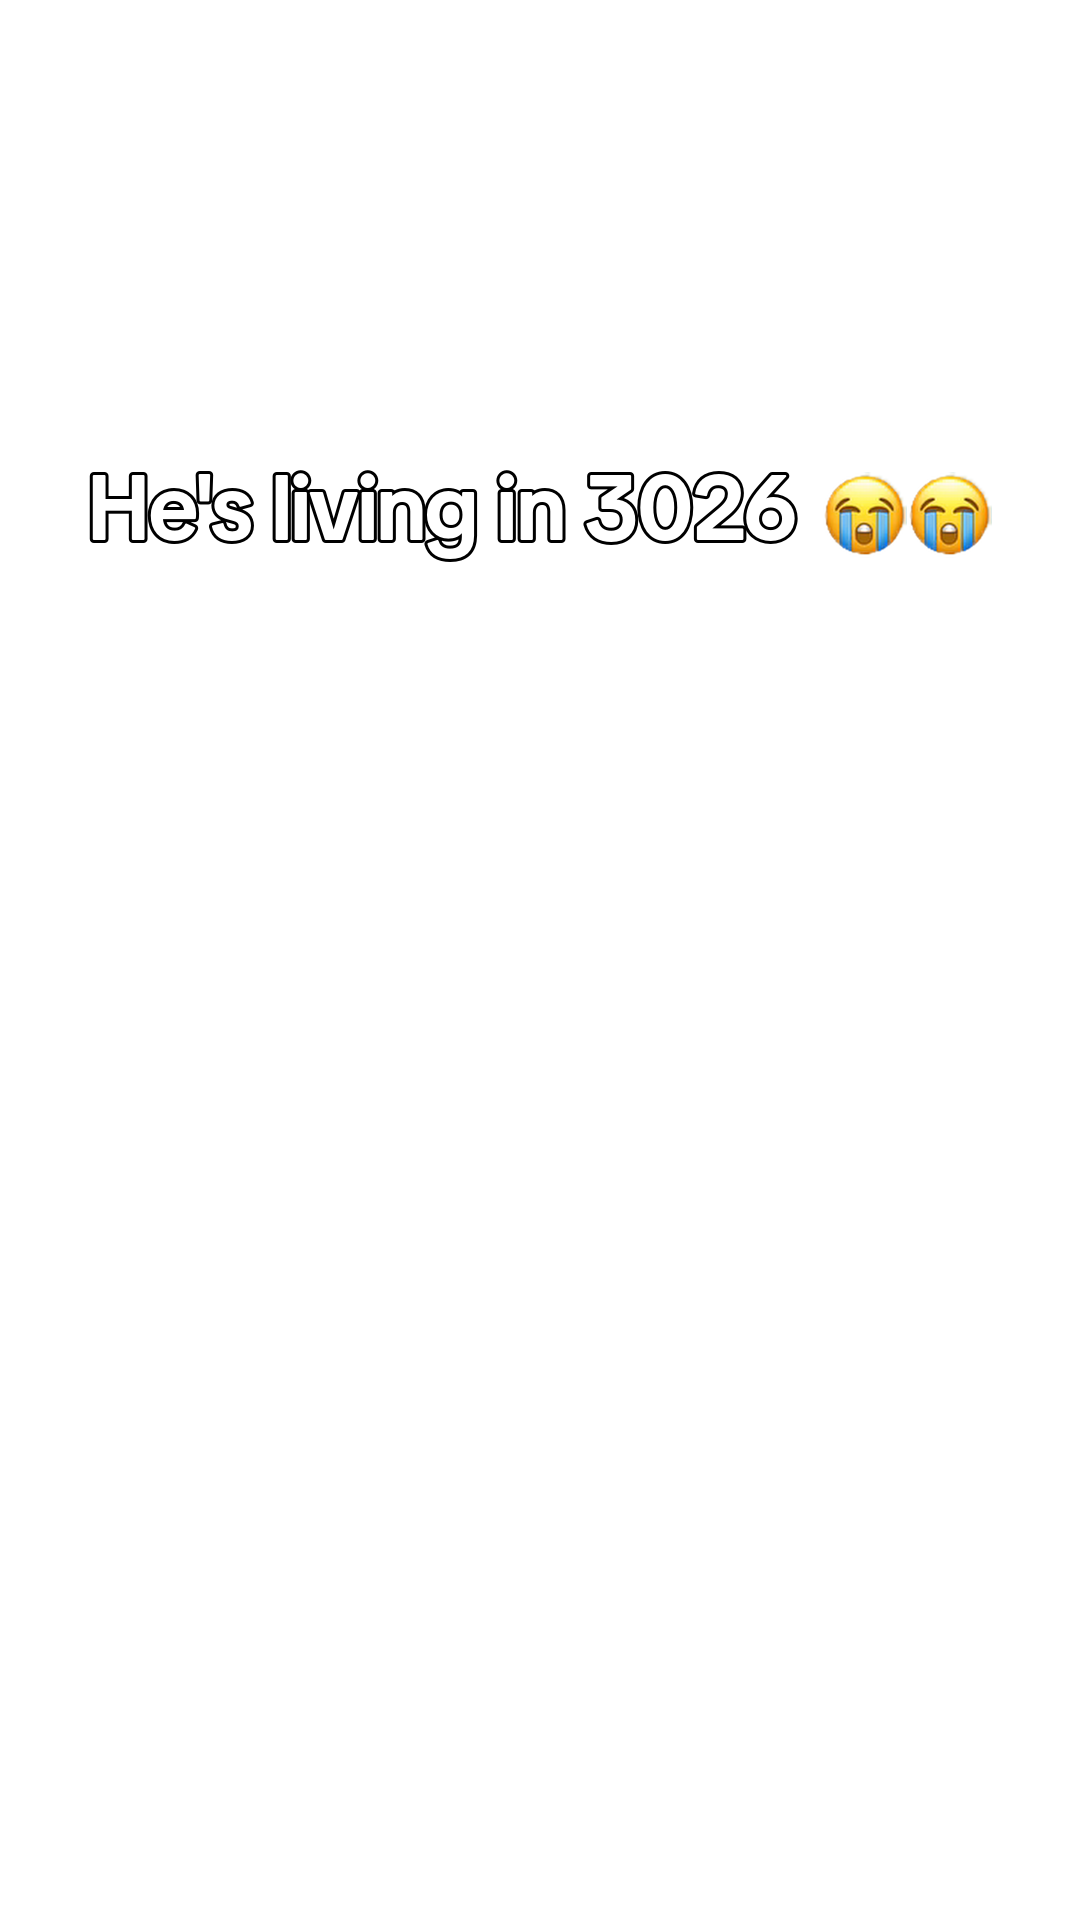
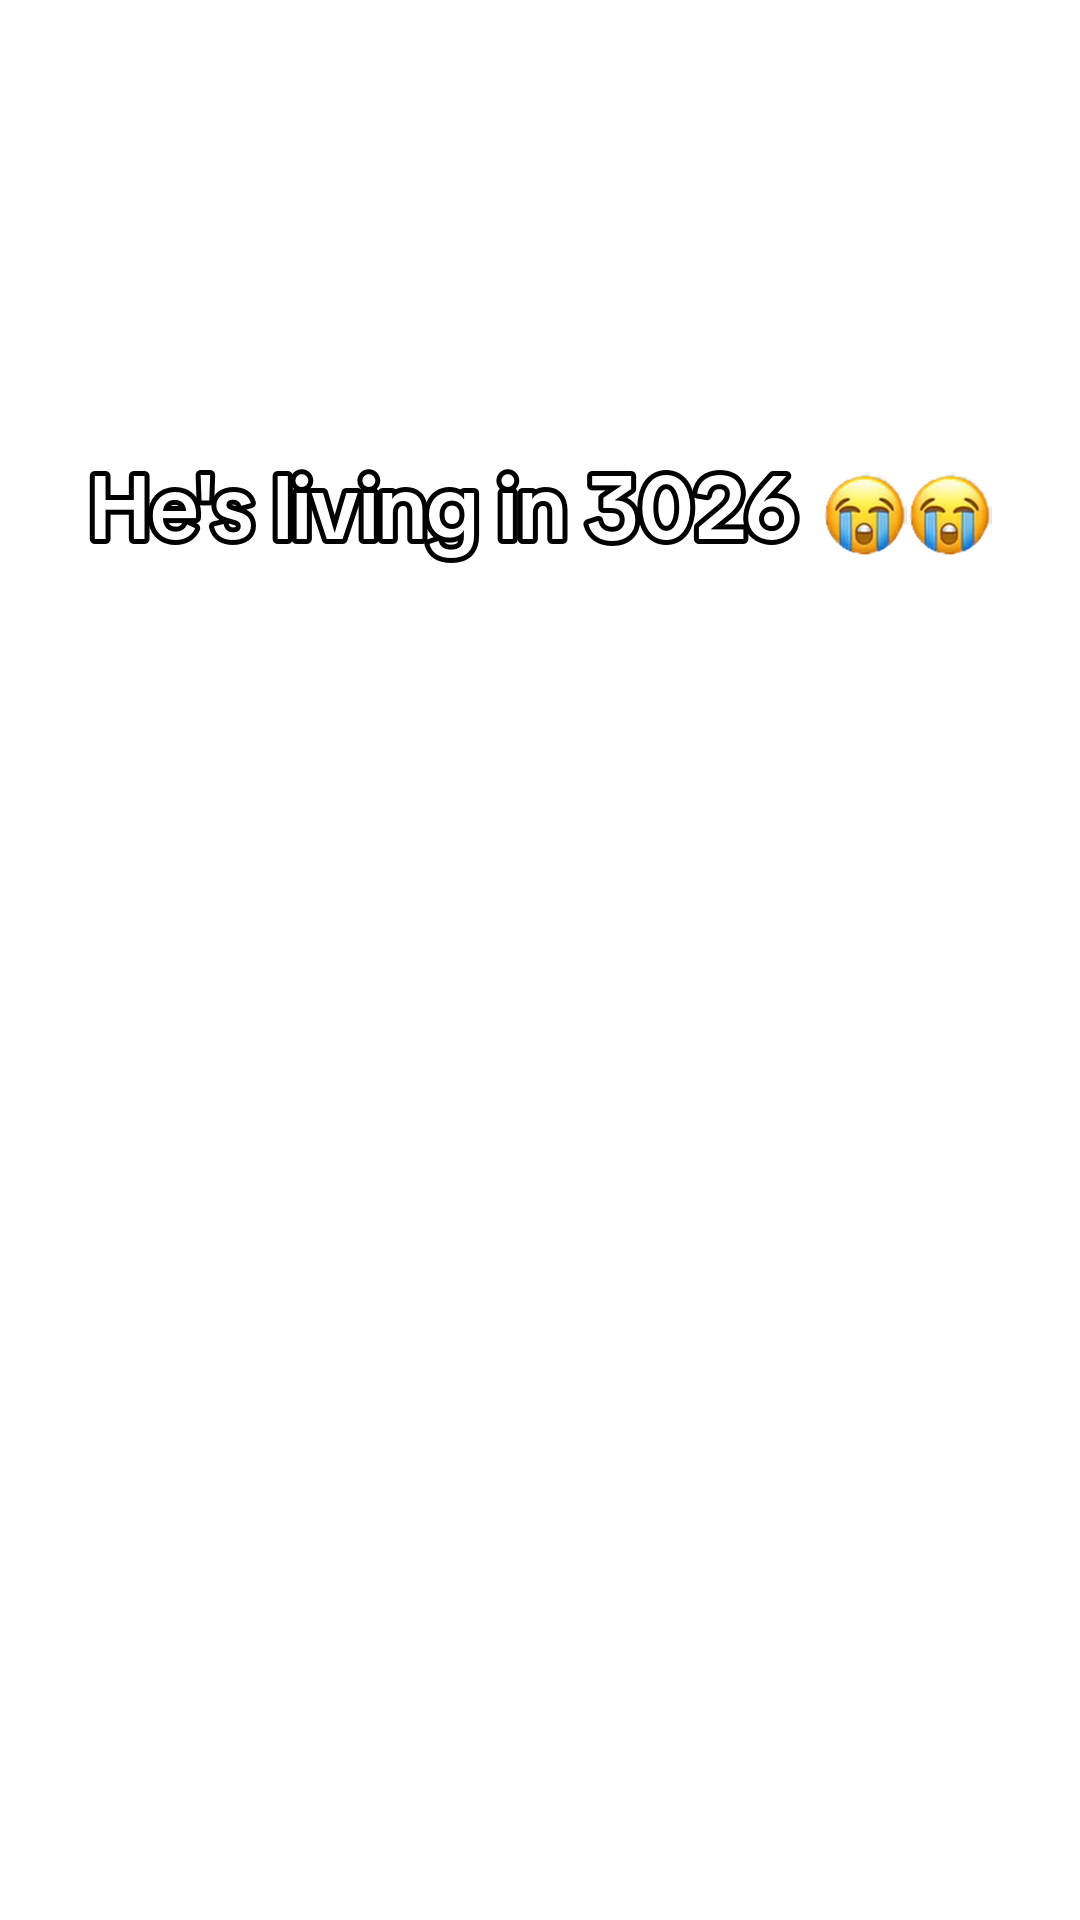
Use CapCut's exact Classic text spec (no bold, thicker outline)
Claude-Session: https://claude.ai/code/session_013WAfZGamzfo2Y8gnxGHoNd

Changed region(s): [[0.0917, 0.25, 0.7333, 0.3125]]

diff --git a/CLAUDE.md b/CLAUDE.md
@@ -134,8 +134,8 @@ Matching rules Evan gave:
   bigger than the reference face, which Evan's reference framing implies.
 - **Text hook** on BOTH hook types, for the hook and the whole reaction: the reference text exactly
   ("He's living in 3026 😭😭" for ref 1, "He's living in 3026 😭🤯" for ref 2). Font: **TikTok Display Medium**
-  (`fonts/TikTokDisplay-Medium.ttf`, the real font from Evan's CapCut, = CapCut "Classic") with a 1px faux bold
-  (`--embolden 1`) and a 3px black outline, box 84,478 to 802,554. This matches the reference exactly. Earlier
+  (`fonts/TikTokDisplay-Medium.ttf`, the real font from Evan's CapCut, = CapCut "Classic"): white fill, black
+  outline `--stroke 5`, **no bold**, box 84,478 to 802,554. Earlier
   TikTok Sans approximations (700/100, then 650/90 condensed) were close but Evan could tell. The emojis are the real Apple ones lifted from the reference
   (`assets/batch_1029/emoji_*_1080.png`; text PNGs and spec.json saved there too, extracted as pixels that stay static while the video changes, then
   cleaned by colour).
@@ -159,8 +159,10 @@ solid evenly lit green, stand a step in front, never wear green, mainly worth it
 ## Fonts
 
 - `fonts/TikTokDisplay-Medium.ttf`: **CapCut's "Classic" / TikTok font**, pulled from Evan's CapCut desktop install
-  (2026-10-30). Use it for TikTok-style text (`make_text_hook.py --font fonts/TikTokDisplay-Medium.ttf --embolden 1`).
-  Only Medium exists in the file; CapCut text looks one step bolder, so add the 1px embolden.
+  (2026-10-30). CapCut's own "Classic" preset (read from Evan's draft by a local session): this font, fill
+  #ffffff, outline #000000 at CapCut width 0.08, no shadow, no bold/italic. In `make_text_hook.py` that's
+  `--font fonts/TikTokDisplay-Medium.ttf --stroke 5` at ~89px (CapCut's 0.08 isn't the same unit: 7px looked
+  thicker than the reference, 5px matched). Don't add `--embolden`.
 - `fonts/TikTokSans.ttf`: free variable TikTok Sans (Google Fonts). Same family look, but not identical. The
   original reaction format's CTA text still uses it (approved by Evan before the real font was available);
   ask before switching that one.
